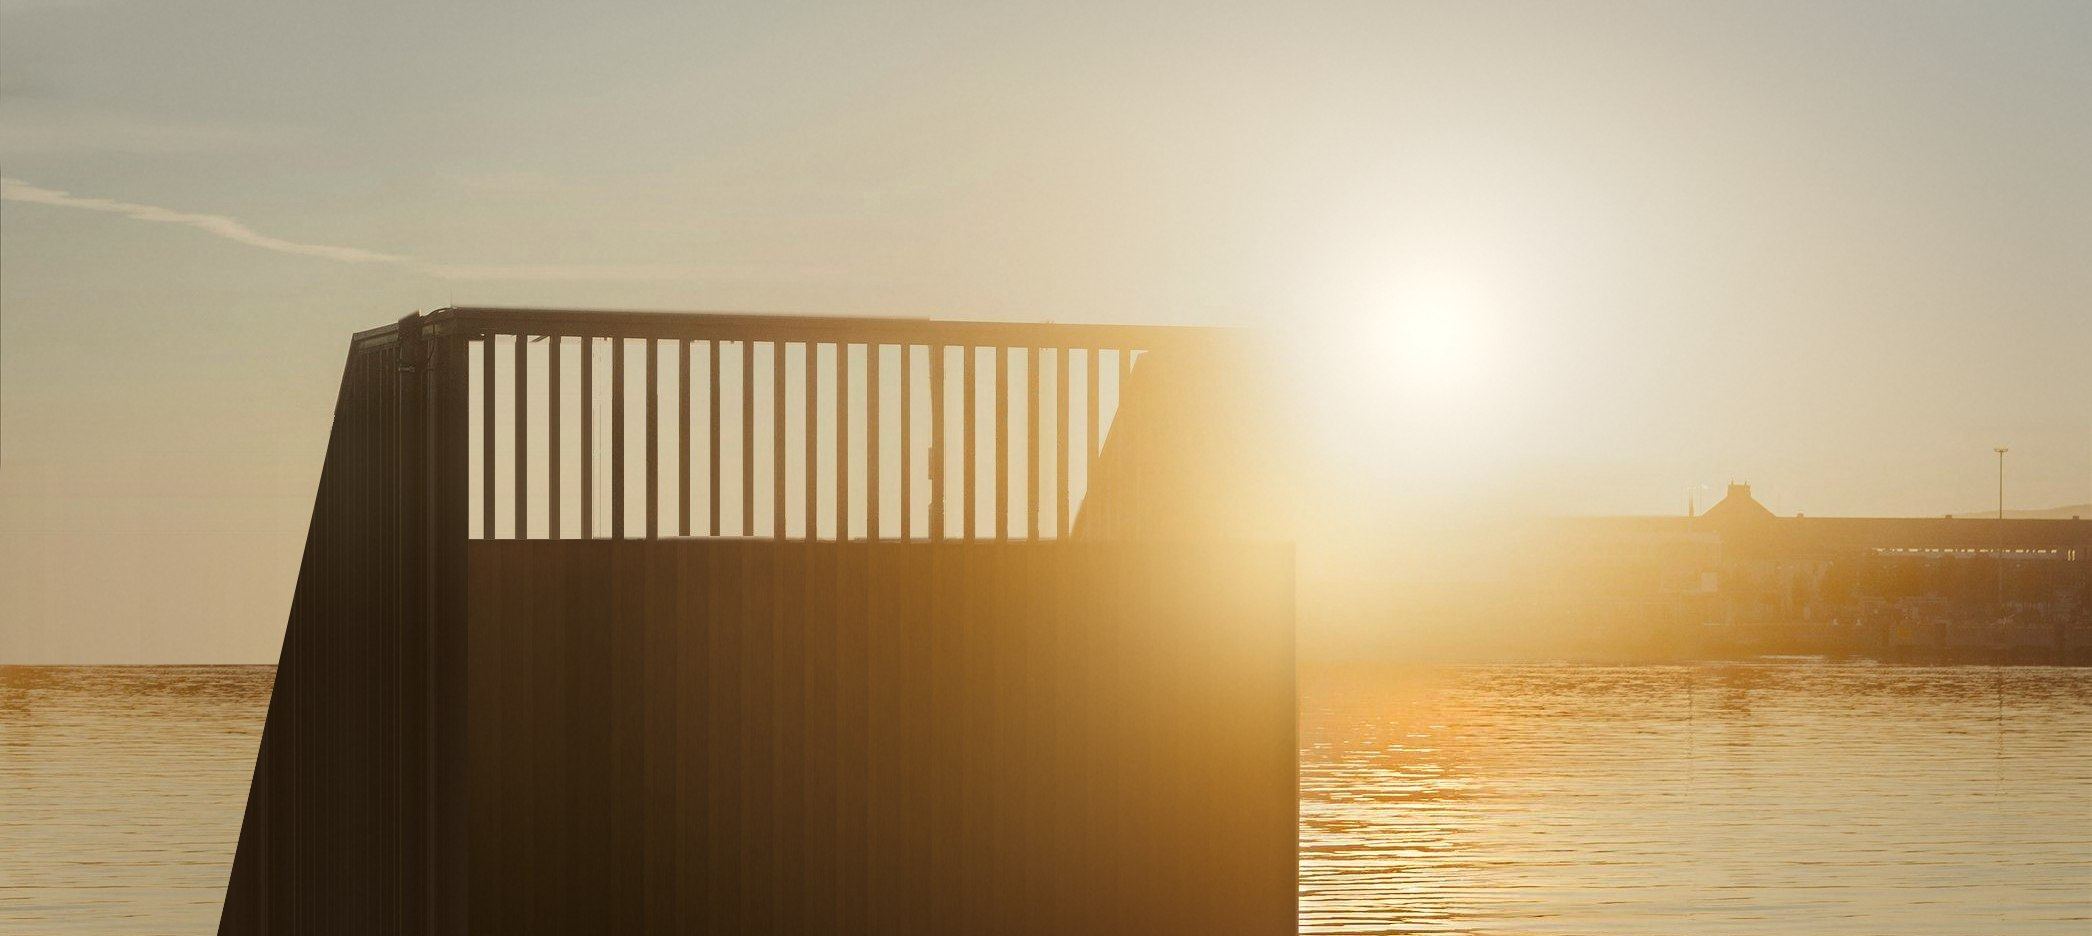
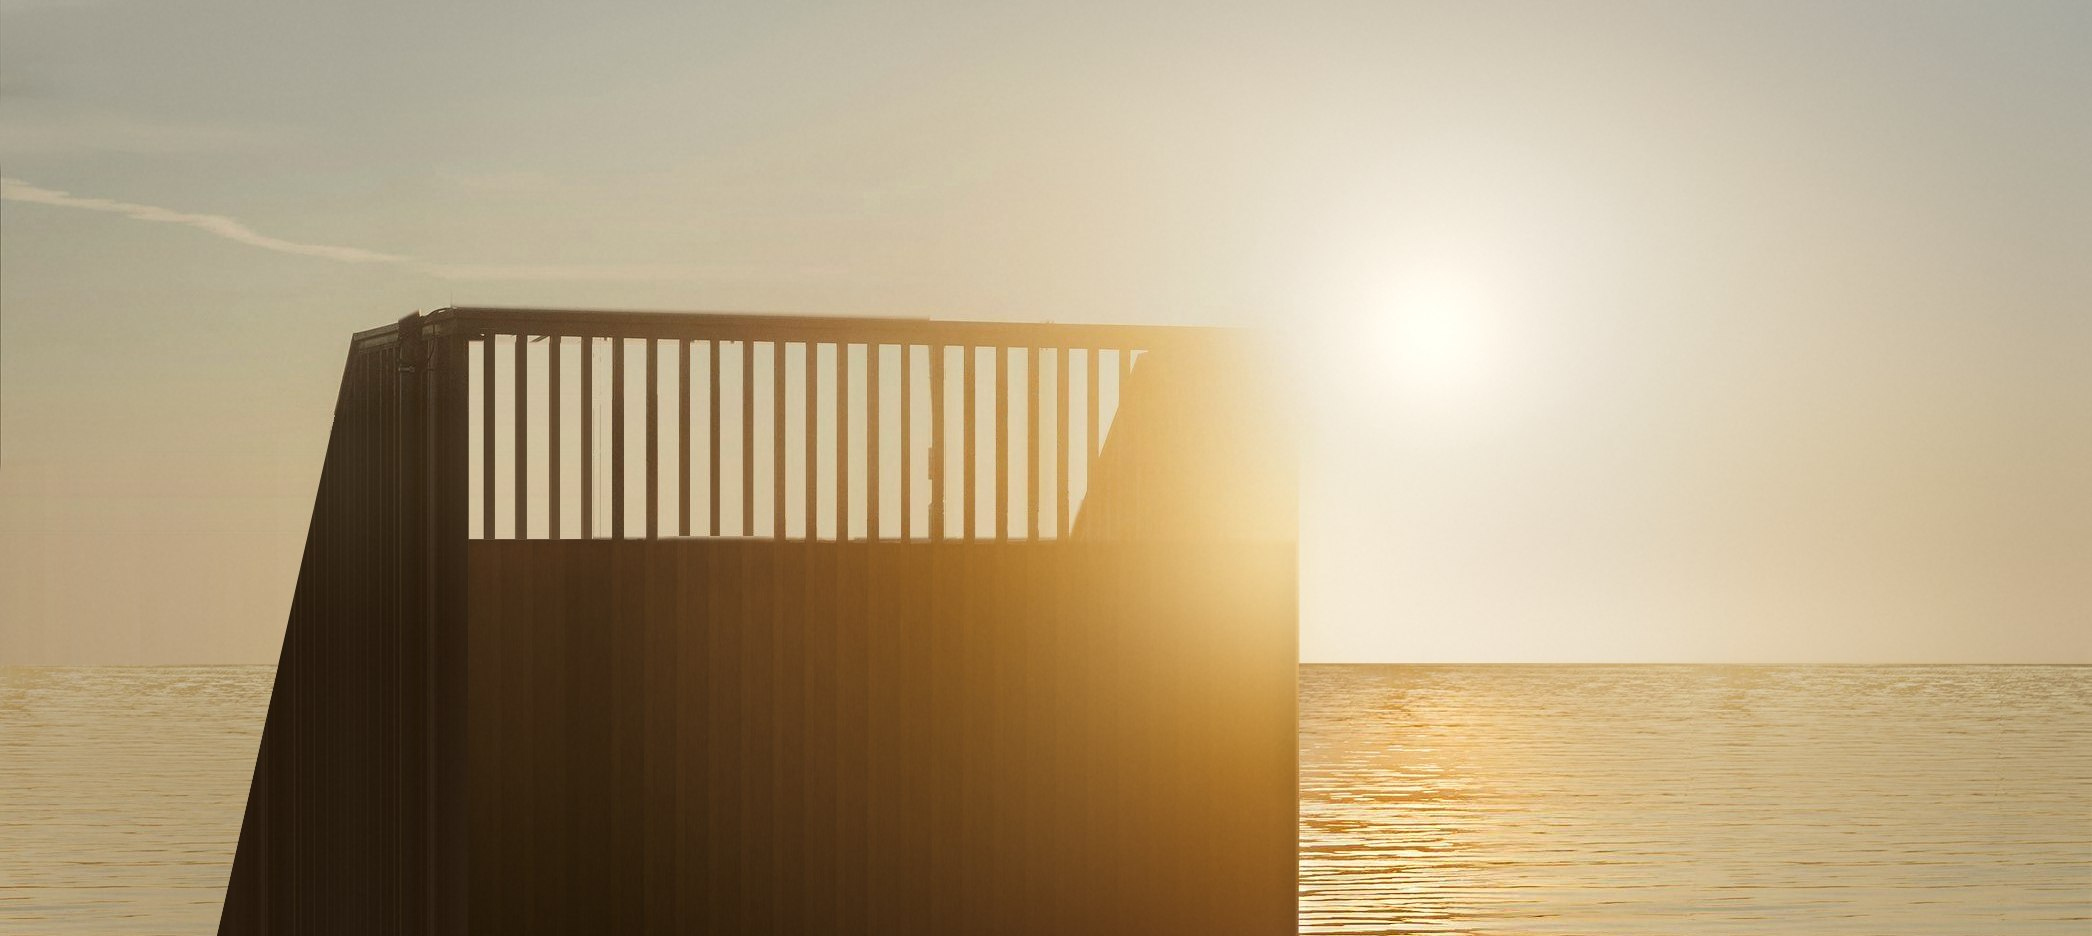
Landing: remove the far shore from the hero photo
The buildings and their reflections in the water are gone, so the sky meets the open sea at a clear sea line. The alt text now describes the open sea.

Changed region(s): [[0.6214, 0.4957, 1.0, 0.8365], [0.0, 0.6816, 0.1554, 0.8056]]

diff --git a/.docs/planning-artifacts/ux-designs/ux-booking-platform-2026-11-05/mockups/directions-3.html b/.docs/planning-artifacts/ux-designs/ux-booking-platform-2026-11-05/mockups/directions-3.html
@@ -138,7 +138,7 @@ h5{font-size:24px;line-height:1.25;font-weight:300}
 <a class="btn wide" href="#book">Book seats</a>
 <p class="fact">Open every day<br>10:00–22:00<br>Sessions last 1&nbsp;h&nbsp;30&nbsp;min</p><p class="fact">NOK 250 per seat<br>incl. VAT</p></div></aside>
 <div class="main">
-<img class="photo hero" src="images/hero-sauna-by-the-water.jpg" alt="A dark wooden sauna with a railing on its roof, standing in calm water, with the low sun glowing softly over the harbour and golden light on the surface.">
+<img class="photo hero" src="images/hero-sauna-by-the-water.jpg" alt="A dark wooden sauna with a railing on its roof, standing in calm water, with the low sun glowing softly over the open sea and golden light on the surface.">
 <p class="desc">Löyly is the steam that rises when water meets the hot stones. At Saunalöyly you come to Finnish saunas by the sea, where you can swim all year round.</p>
 <section class="before" id="before-you-come"><h4>Before you come</h4><div class="cols"><div class="bg"><h5>What to bring</h5><ul><li>Swimwear to wear at the venue.</li><li>Two towels. One to sit on and one to dry yourself with.</li><li>A bottle for water.</li></ul></div><div class="bg"><h5>Safety</h5><ul><li>Drink enough water to avoid dehydration.</li><li>Alcohol is not allowed at the venue.</li><li>Keep rounds in the sauna to 10 minutes at most, and leave if you feel unwell.</li><li>Ask the others before throwing water on the stones.</li><li>Swim preferably with others, and never ice-bathe alone.</li><li>Children must be supervised by an adult.</li></ul></div><div class="bg"><h5>Practical</h5><ul><li>Changing time is part of your session.</li><li>There is a wardrobe for your clothes.</li><li>You can swim in the sea all year round.</li><li>There are showers.</li><li>There is a tap with drinking water.</li></ul></div></div><img class="photo strip" src="images/before-towels.jpg" alt="A rolled grey towel beside a beige towel in a cork tray."></section>
 <section class="saunas"><div class="tx"><h4>The saunas</h4><p>A booking gives you seats in the shared saunas open during your session. On site you can move freely between them.</p></div><div class="rooms"><div class="room"><img class="photo" src="images/sauna-rauha-door.jpg" alt="A glass sauna door with a long pale wooden handle, and a stove filled with grey stones seen through it."><h5>Rauha</h5><p class="meta">Holds 7</p><p>Rauha means peace.</p></div><div class="room"><img class="photo" src="images/sauna-loyly-kiuas.jpg" alt="Water dripping from a black ladle onto grey stones heaped around a sauna stove's chimney."><h5>Löyly</h5><p class="meta">Holds 10</p><p>Named for the steam from the stones, like the venue.</p></div><div class="room"><img class="photo" src="images/sauna-kajo-kiulu.jpg" alt="A black sauna bucket with a curved wooden handle and a wooden-handled ladle, on a pale wooden bench."><h5>Kajo</h5><p class="meta">Holds 12</p><p>Kajo means a soft glow of light.</p></div><div class="room"><img class="photo" src="images/sauna-lumo-lauteet.jpg" alt="Empty wooden sauna benches along a wall, lit softly from behind the backrest."><h5>Lumo</h5><p class="meta">Holds 15</p><p>Lumo means enchantment.</p></div></div></section>

diff --git a/ASSETS.md b/ASSETS.md
@@ -15,7 +15,7 @@ They are in `.docs/planning-artifacts/ux-designs/ux-booking-platform-2026-11-05/
 | `sauna-kajo-kiulu.jpg` | Landing, Kajo | ["Modern Indoor Sauna with Wooden Panels"](https://www.pexels.com/photo/modern-indoor-sauna-with-wooden-panels-36420272/) by HUUM │sauna heaters, Pexels licence, cropped, brand name on the bucket retouched out, soft warm glow added | A black sauna bucket with a curved wooden handle and a wooden-handled ladle, on a pale wooden bench. |
 | `sauna-loyly-kiuas.jpg` | Landing, Löyly | ["Pouring Liquid on Stones near Windows"](https://www.pexels.com/photo/pouring-liquid-on-stones-near-windows-18285439/) by HUUM │sauna heaters, Pexels licence, cropped | Water dripping from a black ladle onto grey stones heaped around a sauna stove's chimney. |
 | `sauna-lumo-lauteet.jpg` | Landing, Lumo | ["Modern Nordic Sauna Interior with Wooden Design"](https://www.pexels.com/photo/modern-nordic-sauna-interior-with-wooden-design-36077597/) by HUUM │sauna heaters, Pexels licence, cropped to the benches so that the heater and its brand name are left out, colours and contrast adjusted to match the other sauna photos | Empty wooden sauna benches along a wall, lit softly from behind the backrest. |
-| `hero-sauna-by-the-water.jpg` | Landing, hero | ["Oslo badsteforening sauna at sunset"](https://unsplash.com/photos/DusOaeCX_ss) by Eirik Skarstein, Unsplash licence, cropped to landscape, the organisation's logo and name, the SAUNA sign, a sign on a building, a sticker, a notice, a life buoy, two poles, a tall building with its reflection, the crane and buildings behind the railing, a far building, the roof beam at the left with the structure under it, the mesh in the railing and a lens flare retouched out, the side panel, railing, sky and sea extended where the beam stood, wall boards rebuilt from a clean part of the photo, sun's glow and its light on the water reworked, colours and contrast adjusted to match the sauna photos | A dark wooden sauna with a railing on its roof, standing in calm water, with the low sun glowing softly over the harbour and golden light on the surface. |
+| `hero-sauna-by-the-water.jpg` | Landing, hero | ["Oslo badsteforening sauna at sunset"](https://unsplash.com/photos/DusOaeCX_ss) by Eirik Skarstein, Unsplash licence, cropped to landscape, the organisation's logo and name, the SAUNA sign, a sign on a building, a sticker, a notice, a life buoy, two poles, a tall building with its reflection, the crane and buildings behind the railing, a far building, the roof beam at the left with the structure under it, the mesh in the railing, the buildings on the far shore with their reflections and a lens flare retouched out, the side panel, railing, sky and sea extended where the beam stood, wall boards rebuilt from a clean part of the photo, sun's glow and its light on the water reworked, colours and contrast adjusted to match the sauna photos | A dark wooden sauna with a railing on its roof, standing in calm water, with the low sun glowing softly over the open sea and golden light on the surface. |
 | `before-towels.jpg` | Landing, Before you come | ["Brown Bottle on Towels"](https://www.pexels.com/photo/brown-bottle-on-towels-7795756/) by Alesia Kozik, Pexels licence, rotated and cropped so that the bottle is left out, colours and contrast adjusted to match the sauna photos | A rolled grey towel beside a beige towel in a cork tray. |
 
 ## Fonts

diff --git a/.docs/planning-artifacts/ux-designs/ux-booking-platform-2026-11-05/.memlog.md b/.docs/planning-artifacts/ux-designs/ux-booking-platform-2026-11-05/.memlog.md
@@ -76,3 +76,4 @@ updated: 2026-11-09T15:47
 - (decision by Lisa) Hero image (2026-11-09): replaced by Unsplash photo DusOaeCX_ss by Eirik Skarstein, a sauna on the water at sunset. The logo and name of the real organisation, a building sign, a sticker and a notice are retouched out (DR-3). At Lisa's request the SAUNA sign, the life buoy, two poles, the tall building with its reflection, the crane and buildings behind the railing and the lens flare are removed too, and the sun is softened. Colours and contrast are adjusted to match the sauna images. The water now matches "by the sea" in the Venue text.
 - (decision by Lisa) Hero image finish (2026-11-09): the crop moves up for more sky and less wall, the wall's boards are rebuilt from a clean part of the source to remove retouching seams, a far building and an awning's shine are removed, and the sun's glow and its light on the water are reworked.
 - (decision by Lisa) Hero image (2026-11-09): the roof beam at the left, in front of the sauna, is removed with the structure under it. The sauna's sloping left edge and side panel continue down in its place, with sky to the left down to the sea line and sea below it. The hero alt text says "standing in calm water".
+- (decision by Lisa) Hero image (2026-11-09): the buildings on the far shore and their reflections in the water are removed, so the sky meets the open sea at a clear sea line. The alt text says "over the open sea".
